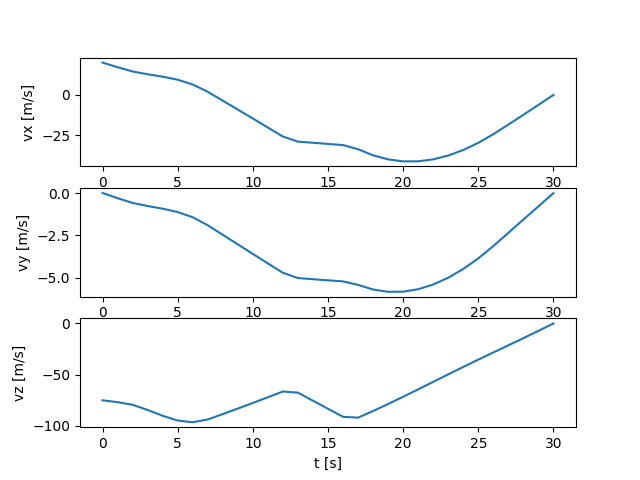
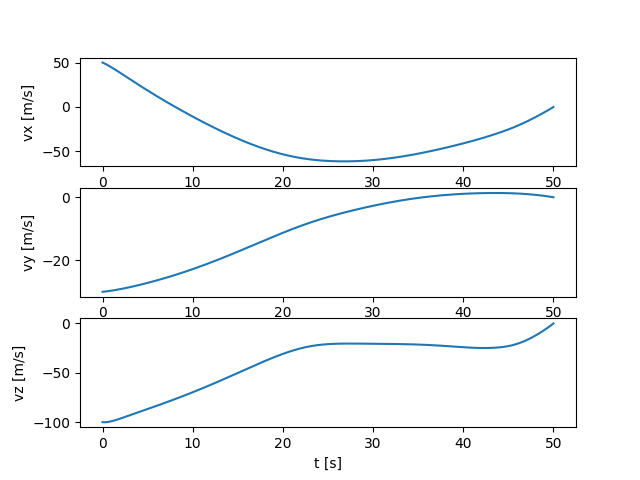
changes to ICs

diff --git a/3dof_guidance/generateTrajectory_pointingConstraints.py b/3dof_guidance/generateTrajectory_pointingConstraints.py
@@ -27,26 +27,28 @@ import matplotlib.pyplot as plt
 # New Shepard
 g0 = 9.80665
 dry_mass = 20569
-wet_mass = 25000 # Assumed from start of landing burn
+wet_mass = 27000 # Assumed from start of landing burn
 Isp = 260
 max_throttle = 0.8 # Safety
 min_throttle = 0.1
 g = np.array([0.0,0.0,-9.81])
 T_max = 490000
 φ = 0*np.deg2rad(1)
-γ = np.deg2rad(5)
+γ = np.deg2rad(20)
 n = np.array([0,0,1])
 θ = np.deg2rad(20)
 
 ## Initial Conditions
-r0 = 1000 * np.array([0.5, 0.1, 2])
-v0 = np.array([20,0.01,-75])
+r0 = 1000 * np.array([1.5, 0.5, 2])
+v0 = np.array([50,-30,-100])
 ## Terminal Conditions set to origin
 rf = np.array([0,0,0])
 vf = np.array([0,0,0])
 ## Time of Flight
-tf = 30
-dt = 1
+tf = 48
+dt = 0.1
+# N = 200
+# dt = tf/N
 
 
 N = int(np.ceil(tf/dt) + 1)
@@ -128,9 +130,12 @@ np.save("data/pos.npy",r.value)
 np.save("data/vel.npy",v.value)
 np.save("data/mass.npy",m)
 
+print(m[-1])
+
 plt.figure()
 ax = plt.axes(projection='3d')
 ax.plot3D(r.value[:,0],r.value[:,1],r.value[:,2])
+ax.set_aspect('equal')
 ax.set_xlabel("X [m]")
 ax.set_ylabel("Y [m]")
 ax.set_zlabel("Z [m]")
@@ -177,6 +182,10 @@ T = np.array([Tx,Ty,Tz]).T
 np.save("data/thrust.npy",T)
 T = np.linalg.norm(T,2,1)
 
+print(Tx[-1])
+print(Ty[-1])
+print(Tz[-1])
+
 
 # plt.figure()
 # plt.subplot(5,1,1)
@@ -222,3 +231,5 @@ plt.plot(t_span,Tz)
 plt.xlabel("t [s]")
 plt.ylabel("Tz [N]")
 plt.savefig("figures/3dof_controlVector_attitude.png")
+
+# plt.show()

diff --git a/plot_scripts/compare_trajectories.py b/plot_scripts/compare_trajectories.py
@@ -1,0 +1,20 @@
+import numpy as np
+import matplotlib.pyplot as plt
+
+# x_6dof = np.load("output/trajectory/001/X.npy")
+x_6dof = np.load("data/x_6dof.npy")
+# x_6dof = x_6dof[1:4,:]
+x_3dofAttitude = np.load("data/pos.npy")
+
+
+plt.figure()
+ax = plt.axes(projection='3d')
+ax.plot3D(x_3dofAttitude[:,0],x_3dofAttitude[:,1],x_3dofAttitude[:,2])
+ax.plot3D(x_6dof[1,:],x_6dof[2,:],x_6dof[3,:])
+ax.set_xlabel("X [m]")
+ax.set_ylabel("Y [m]")
+ax.set_zlabel("Z [m]")
+ax.set_aspect('equal')
+plt.legend(["3DOF", "6DOF"])
+plt.savefig("figures/compare_trajectory.png")
+# plt.show()

diff --git a/6dof/Models/rocket_landing_3d_plot.py b/6dof/Models/rocket_landing_3d_plot.py
@@ -31,6 +31,7 @@ def my_plot(fig, figures_i):
     ax = fig.add_subplot(111, projection='3d')
 
     X_i = X[figures_i, :, :]
+    np.save("data/x_6dof.npy",X_i)
     U_i = U[figures_i, :, :]
     K = X_i.shape[1]
 

diff --git a/3dof_tracking/lqr_tracking.py b/3dof_tracking/lqr_tracking.py
@@ -65,8 +65,8 @@ x_data = np.hstack((pos,vel,mass))
 
 u_data = np.load("data/thrust.npy")
 
-tf = 30
-dt = 1
+tf = 40
+dt = 0.1
 N = int(np.ceil(tf/dt) + 1)
 ts = np.arange(0,tf+dt,dt)
 

diff --git a/3dof_guidance/generateTrajectory.py b/3dof_guidance/generateTrajectory.py
@@ -48,8 +48,8 @@ rf = np.array([0,0,0])
 vf = np.array([0,0,0])
 
 ## Time of Flight
-tf = 30
-dt = 1
+tf = 40
+dt = 0.1
 
 
 N = int(np.ceil(tf/dt) + 1)
